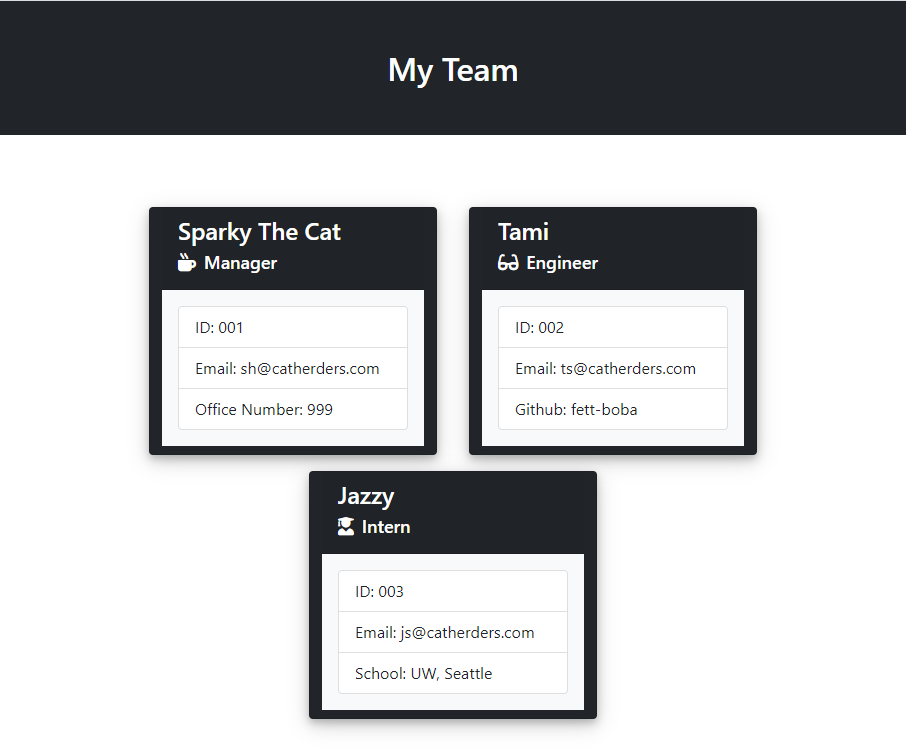
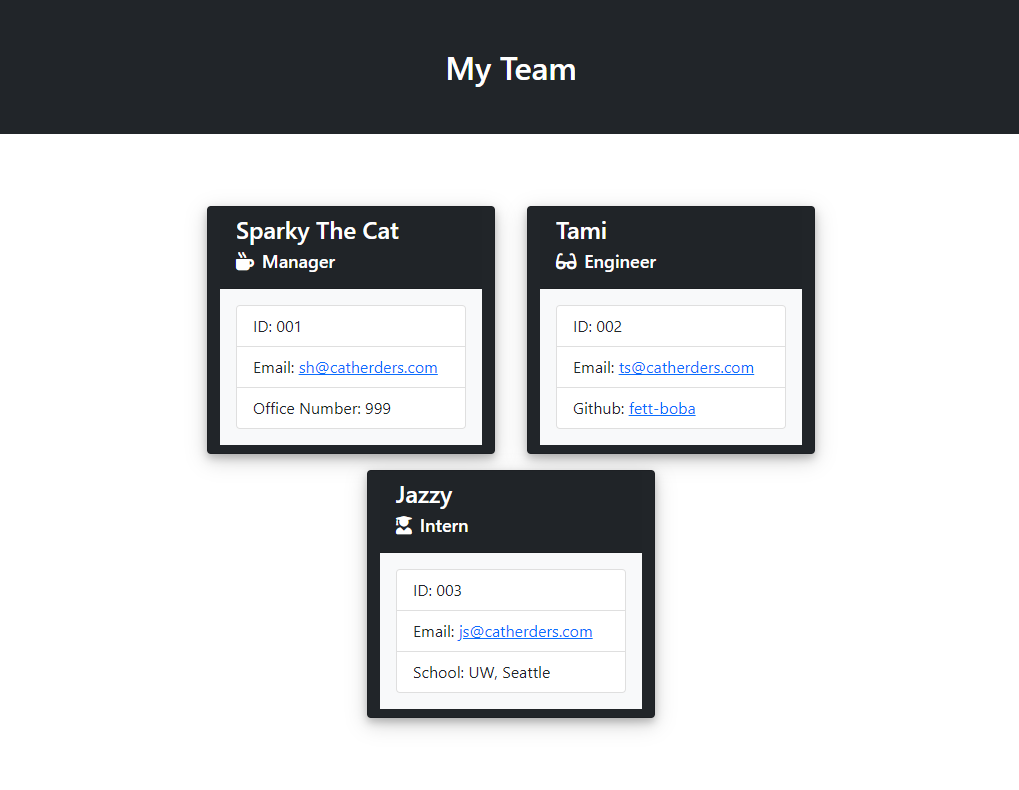
Update README.md file

Changed region(s): [[0.1545, 0.2444, 0.8653, 0.9774], [0.0, 0.1527, 1.0, 0.1833], [0.4327, 0.0611, 0.5872, 0.1222]]

diff --git a/dist/index.html b/dist/index.html
@@ -35,48 +35,36 @@
            
      <div class="card bg-dark text-white mx-3 mt-3">
      <div class="card-header">
-       <h2>asdf</h2><h3><i class="fas fa-mug-hot"></i>Manager</h3>
+       <h2>Sparky The Cat</h2><h3><i class="fas fa-mug-hot"></i>Manager</h3>
      </div>
      <div class="card-body bg-light mb-2">
        <ul class="list-group">
-         <li class="list-group-item">ID: asdf</li>
-         <li class="list-group-item">Email: <a href="mailto:asdf">asdf</a></li><li class="list-group-item">Office Number: asdf</li>
+         <li class="list-group-item">ID: 001</li>
+         <li class="list-group-item">Email: <a href="mailto:sh@catherders.com">sh@catherders.com</a></li><li class="list-group-item">Office Number: 999</li>
        </ul>
      </div>
    </div>
         
      <div class="card bg-dark text-white mx-3 mt-3">
      <div class="card-header">
-       <h2>asdf</h2><h3><i class="fas fa-glasses"></i>Engineer</h3>
+       <h2>Tami</h2><h3><i class="fas fa-glasses"></i>Engineer</h3>
      </div>
      <div class="card-body bg-light mb-2">
        <ul class="list-group">
-         <li class="list-group-item">ID: asdf</li>
-         <li class="list-group-item">Email: <a href="mailto:asdf">asdf</a></li><li class="list-group-item">Github: <a href="https://github.com/asdf" target="_blank">asdf</a></li>
+         <li class="list-group-item">ID: 002</li>
+         <li class="list-group-item">Email: <a href="mailto:ts@catherders.com">ts@catherders.com</a></li><li class="list-group-item">Github: <a href="https://github.com/fett-boba" target="_blank">fett-boba</a></li>
        </ul>
      </div>
    </div>
         
      <div class="card bg-dark text-white mx-3 mt-3">
      <div class="card-header">
-       <h2>asdf</h2><h3><i class="fas fa-user-graduate"></i>Intern</h3>
+       <h2>Jazzy</h2><h3><i class="fas fa-user-graduate"></i>Intern</h3>
      </div>
      <div class="card-body bg-light mb-2">
        <ul class="list-group">
-         <li class="list-group-item">ID: asdf</li>
-         <li class="list-group-item">Email: <a href="mailto:asdf">asdf</a></li><li class="list-group-item">School: asdf</li>
-       </ul>
-     </div>
-   </div>
-        
-     <div class="card bg-dark text-white mx-3 mt-3">
-     <div class="card-header">
-       <h2></h2><h3><i class="fas fa-user-graduate"></i>Intern</h3>
-     </div>
-     <div class="card-body bg-light mb-2">
-       <ul class="list-group">
-         <li class="list-group-item">ID: asdf</li>
-         <li class="list-group-item">Email: <a href="mailto:asdf">asdf</a></li><li class="list-group-item">School: asdf</li>
+         <li class="list-group-item">ID: 003</li>
+         <li class="list-group-item">Email: <a href="mailto:js@catherders.com">js@catherders.com</a></li><li class="list-group-item">School: UW, Seattle</li>
        </ul>
      </div>
    </div>

diff --git a/README.md b/README.md
@@ -1,5 +1,4 @@
 # Week10-OOP-Team-Profile-Generator
-Week10 Team Profile Generator
 
 
 ## Description
@@ -20,16 +19,12 @@ Week10 Team Profile Generator
 ## Tests
 
 - JEST tests exist for all objects (Employee, Manager, Engineer, Intern) to insure they return expected results for each method.
+- Located in __tests__
 
 ## Assets
 
+![Screen capture demonstrating the command line interface](img/usage.PNG)
 
-     update this.....
+![Screen capture of resulting index.html file](img/html.PNG)
 
-
-
-![Screen capture demonstrating the command line interface](img/commandLineDemo.PNG)
-
-![Screen capture of resulting README.md file](img/readmeDemo.PNG)
-
-
+---
